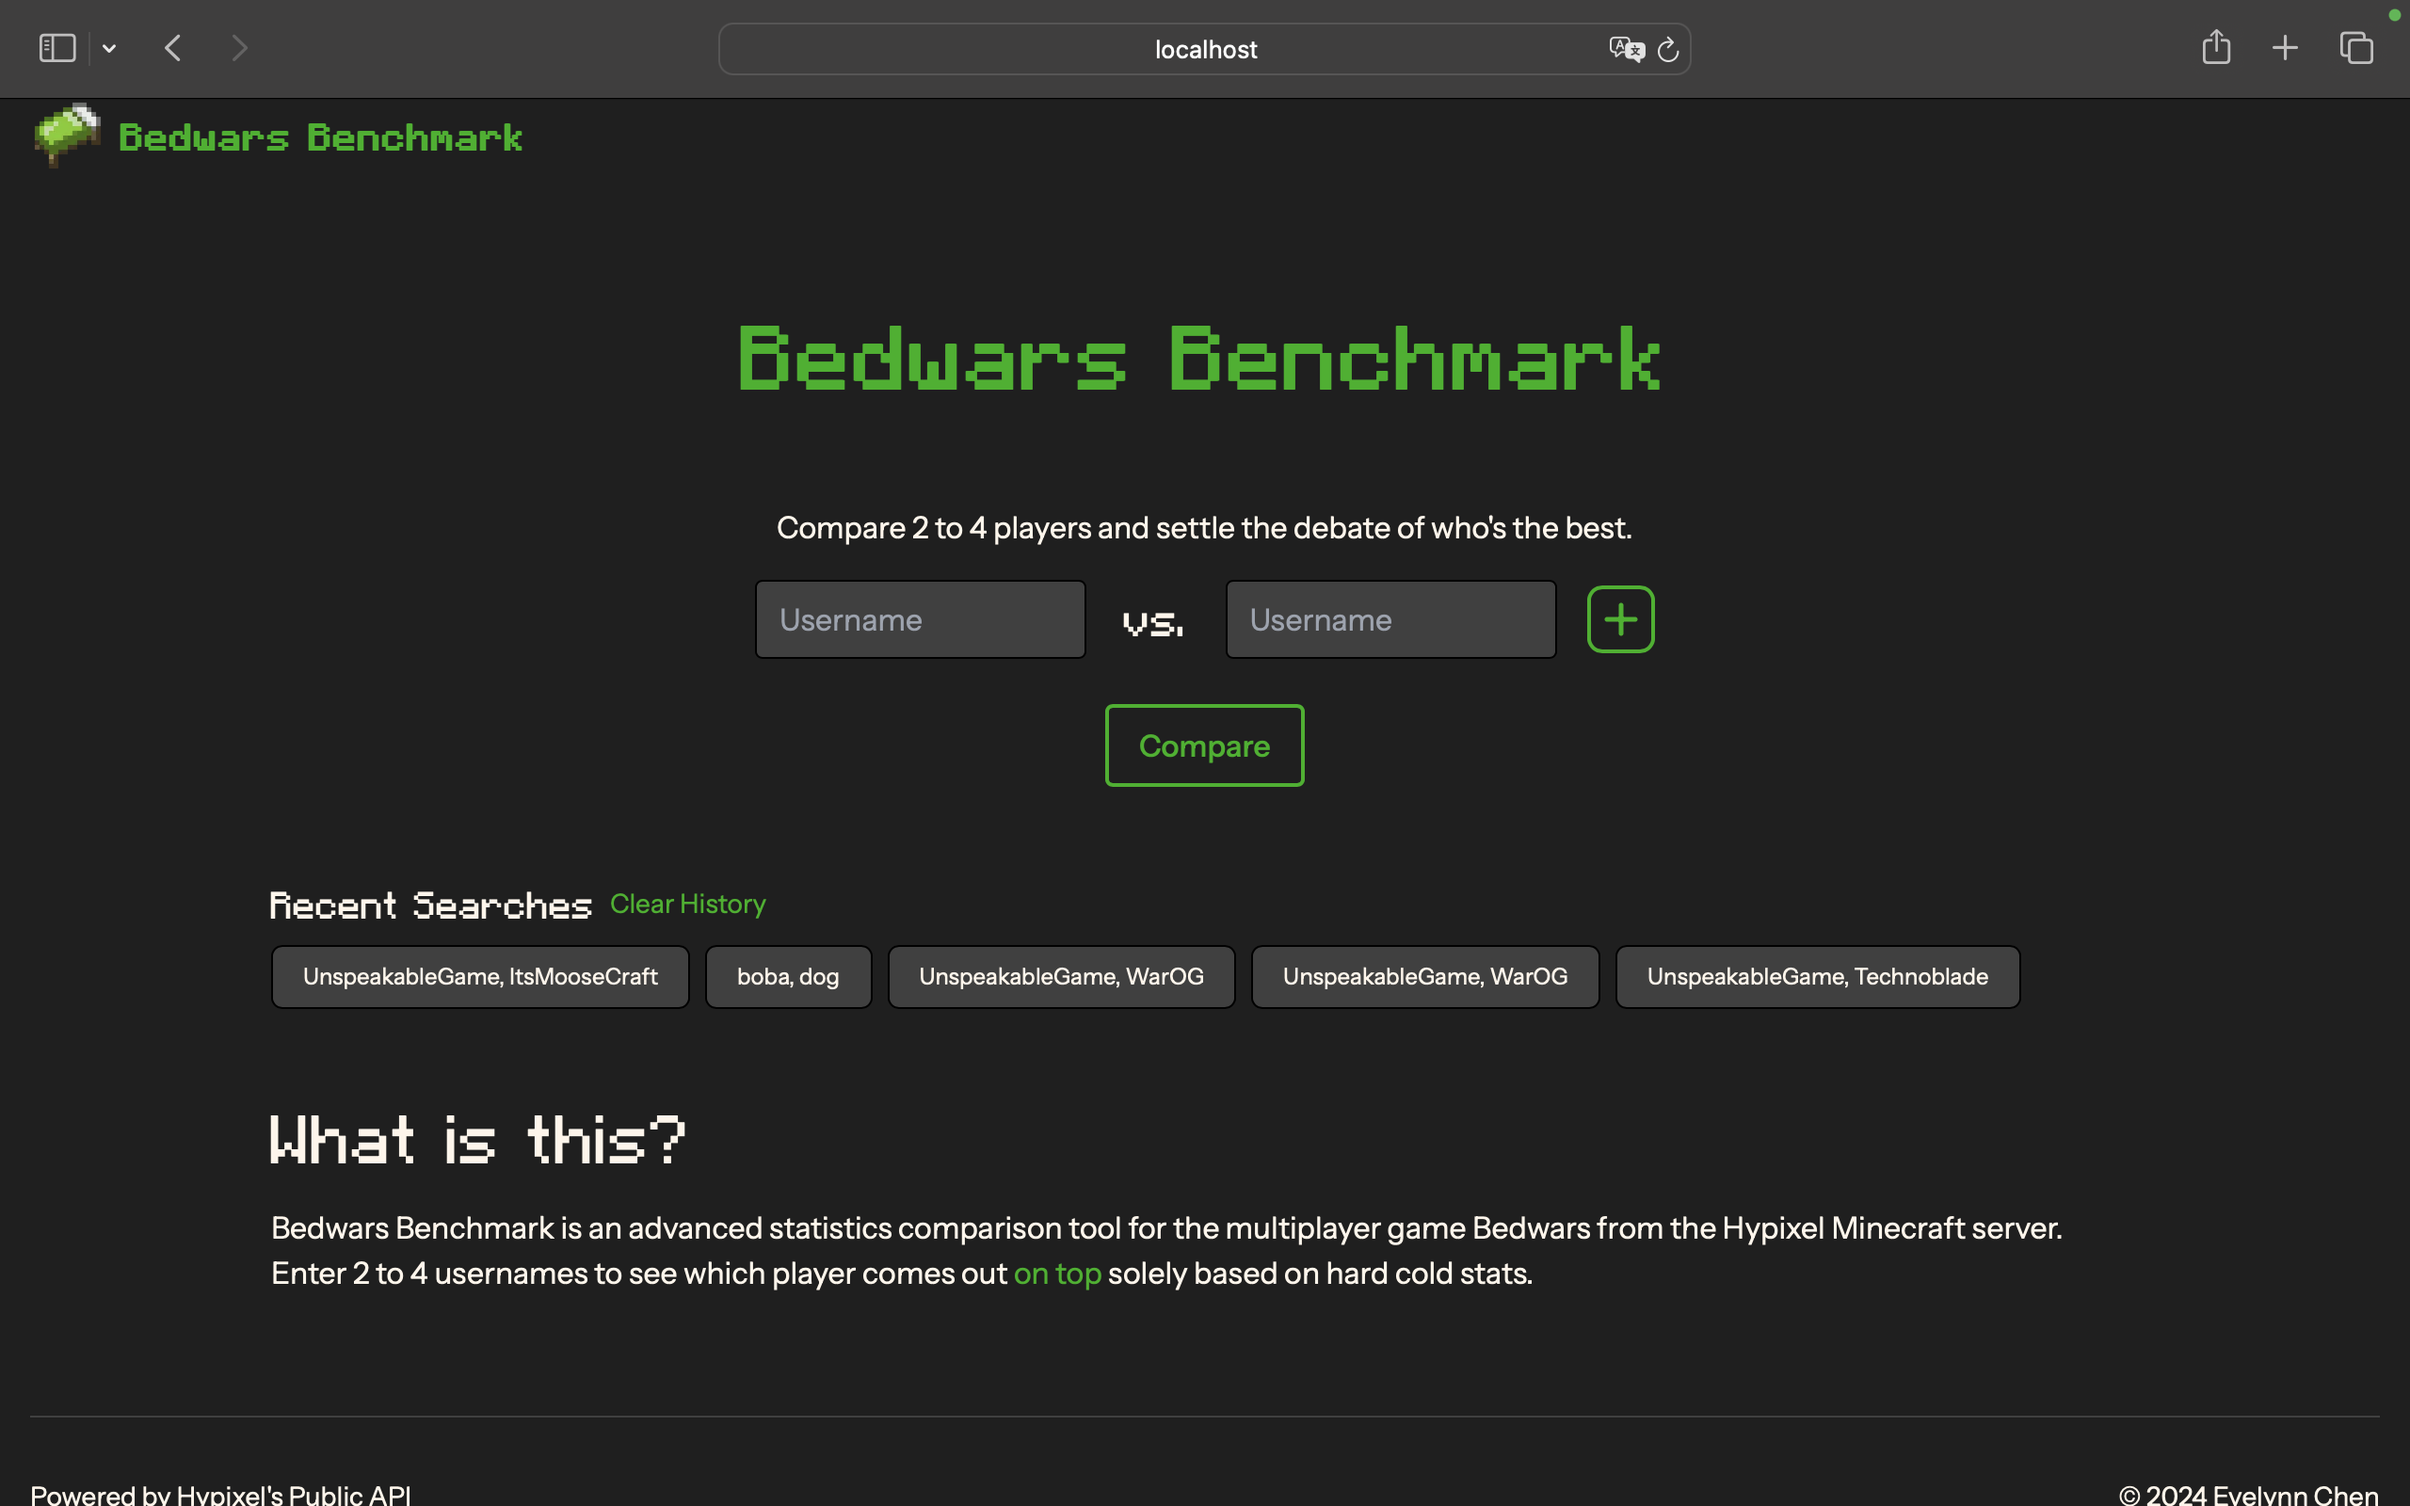
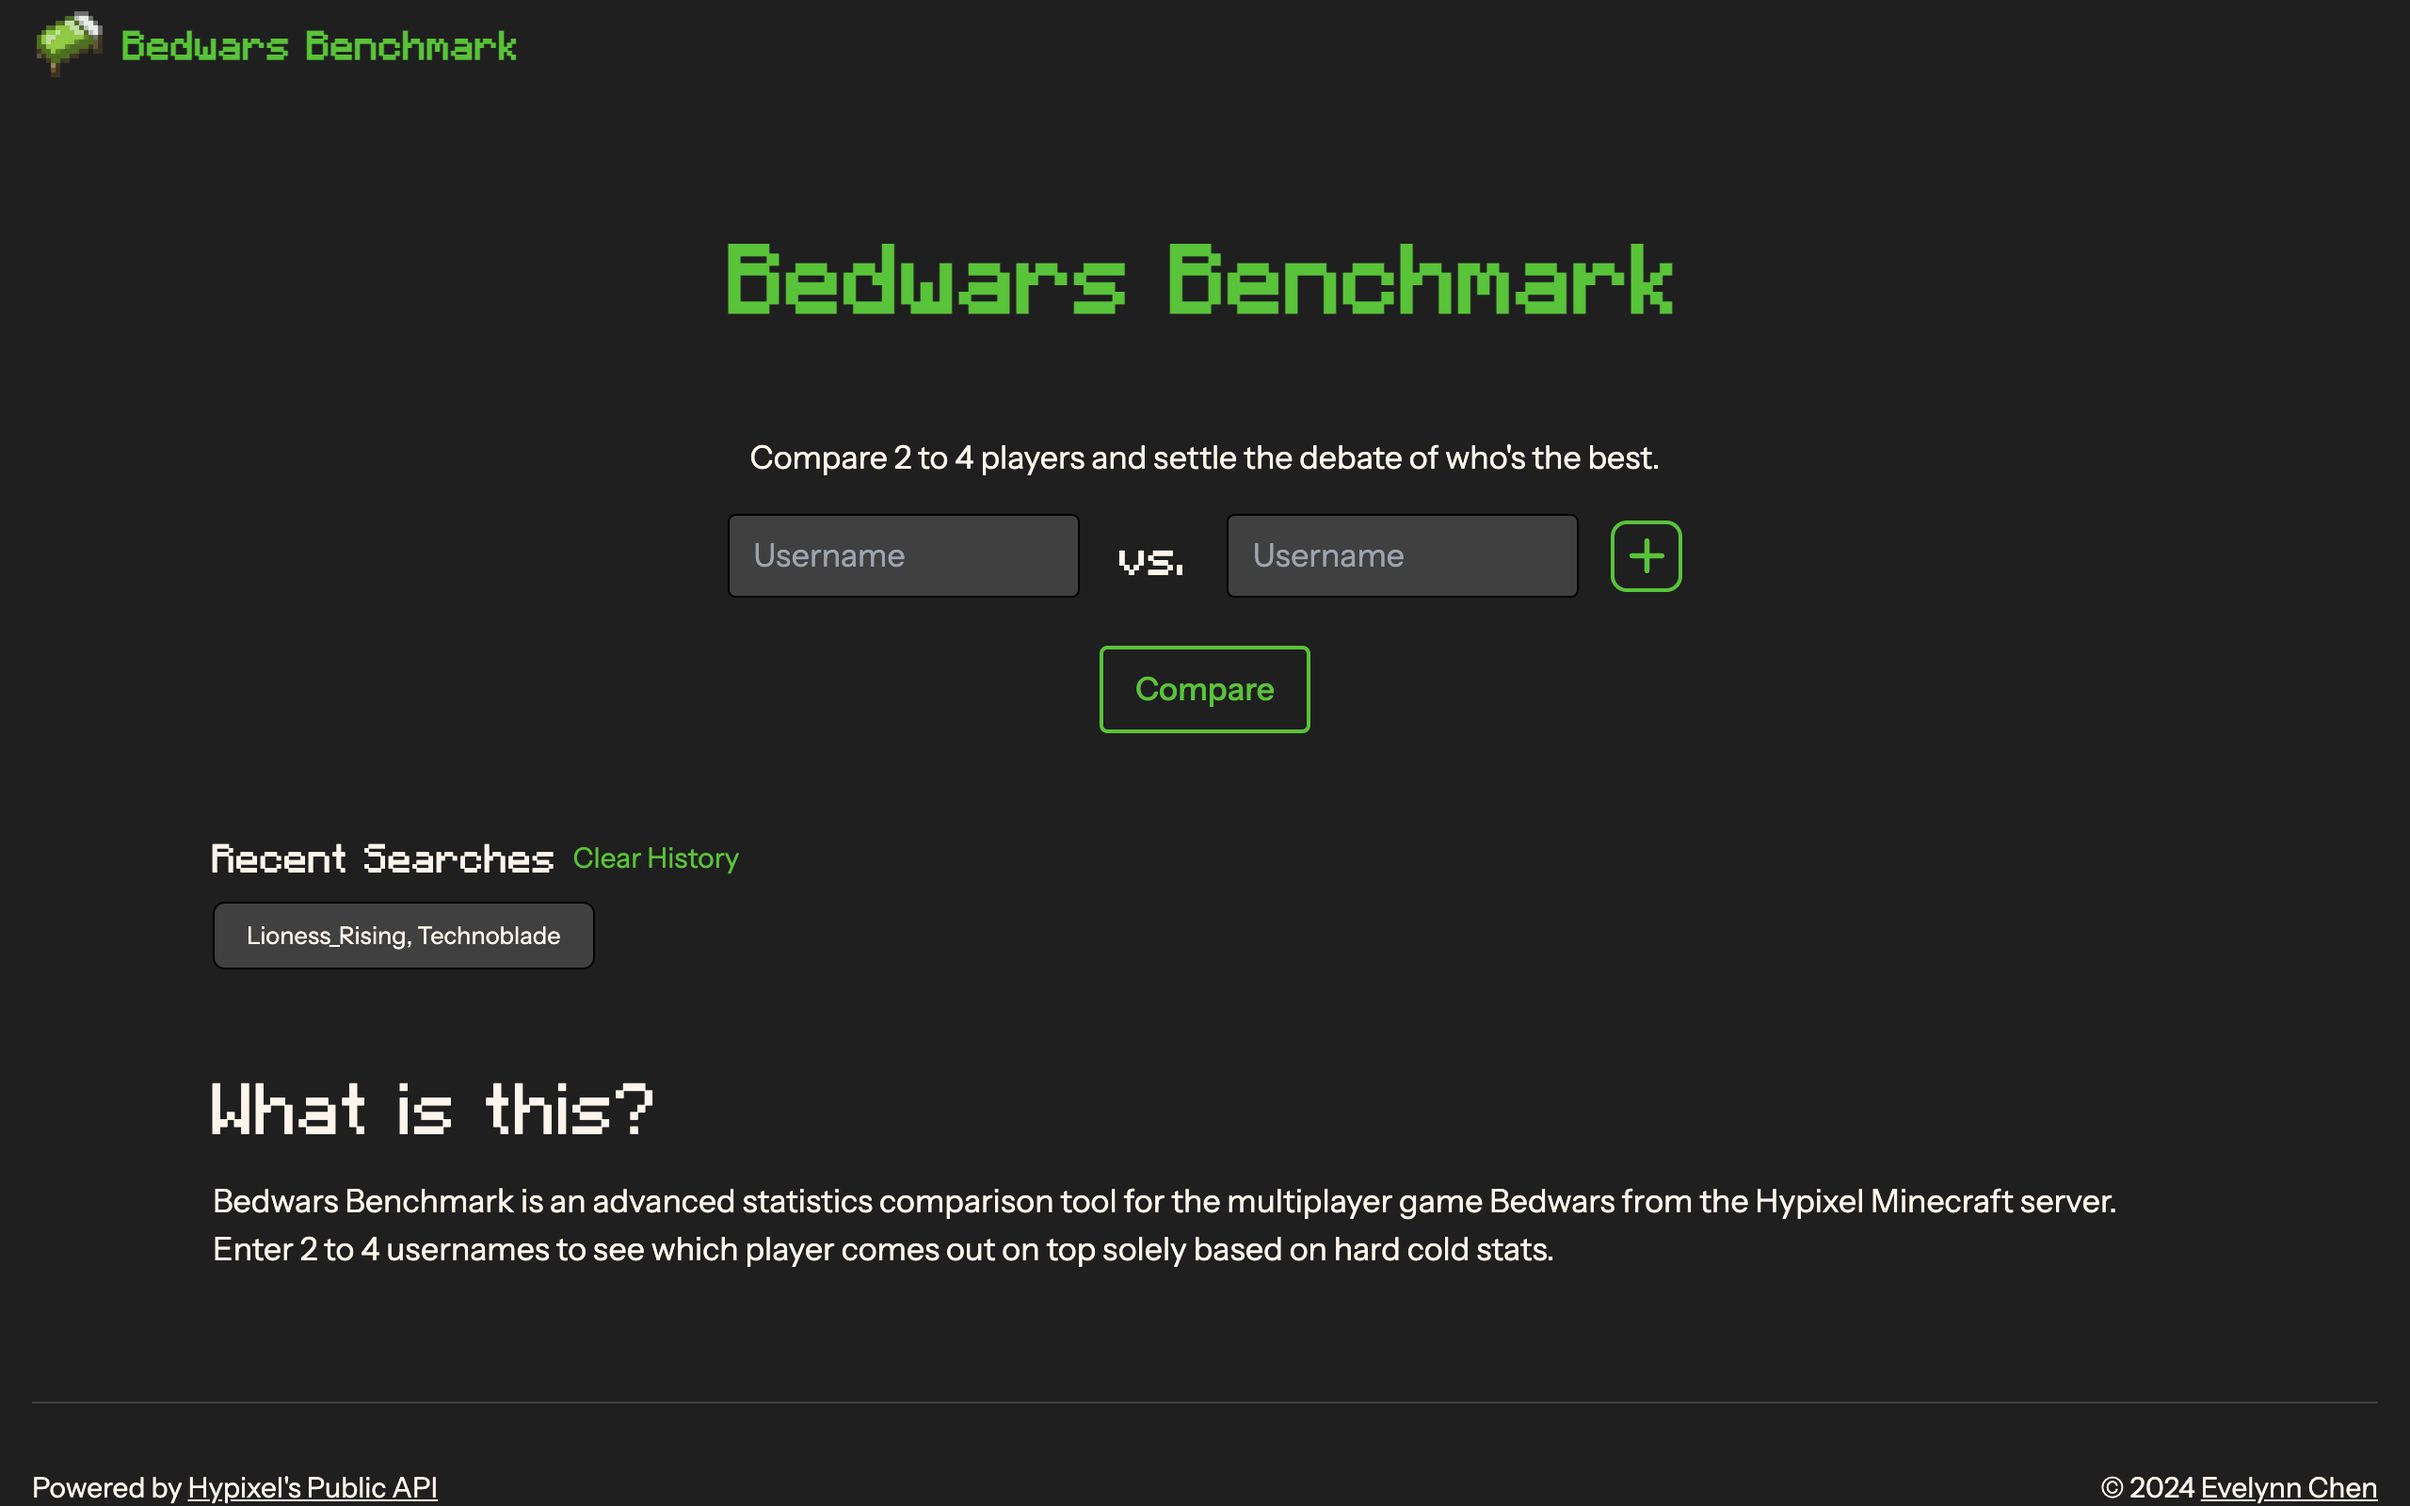
made green lighter, added example imgs

diff --git a/pages/index.js b/pages/index.js
@@ -183,11 +183,12 @@ export default function Home() {
             ))}
 
             {usernames.length < 4 && (
-              <button aria-label="Add player input" onClick={addPlayer} className="py-1 px-1 rounded-lg text-mc-green border-2 border-mc-green hover:border-mc-green-dark">
+              <button aria-label="Add player input" onClick={addPlayer} className="py-1 px-1 rounded-lg text-mc-green border-2 border-mc-green hover:border-mc-green-dark hover:text-mc-green-dark">
                 {/* SVG from heroicons.com */}
                 <svg xmlns="http://www.w3.org/2000/svg" fill="none" viewBox="0 0 24 24" strokeWidth="2.5" stroke="currentColor" className="w-6 h-6">
                   <path strokeLinecap="round" strokeLinejoin="round" d="M12 4.5v15m7.5-7.5h-15" />
                 </svg>
+                <span className="sr-only">Add player input</span>
               </button>
             )}
           </div>
@@ -201,7 +202,7 @@ export default function Home() {
             </div>
 
           ) : (
-            <button onClick={compare} className={`mt-4 font-medium py-2 px-4 rounded text-mc-green border-2 border-mc-green hover:border-mc-green-dark`}>
+            <button onClick={compare} className={`mt-4 font-medium py-2 px-4 rounded text-mc-green border-2 border-mc-green hover:border-mc-green-dark hover:text-mc-green-dark`}>
               Compare
             </button>
           )}

diff --git a/tailwind.config.js b/tailwind.config.js
@@ -11,8 +11,8 @@ module.exports = {
     colors: {
       ...colors,
       'mc-red': '#bb231f',
-      'mc-green': '#01b202',
-      'mc-green-dark': '#017A01',
+      'mc-green': '#01C601',
+      'mc-green-dark': '#018E01',
       'mc-gray': '#404040',
       'coal': '#1F1F1F',
     },

diff --git a/README.md b/README.md
@@ -18,3 +18,7 @@ This tool was built with Next.js & Tailwind CSS and employs [Mojang's Public API
 4. Run the development server with `npm run dev`.
 
 ![Home page](/public/examples/home.png)
+
+![Compare page comparison view](/public/examples/comparison.png)
+
+![Compare page individual view](/public/examples/individual.png)
